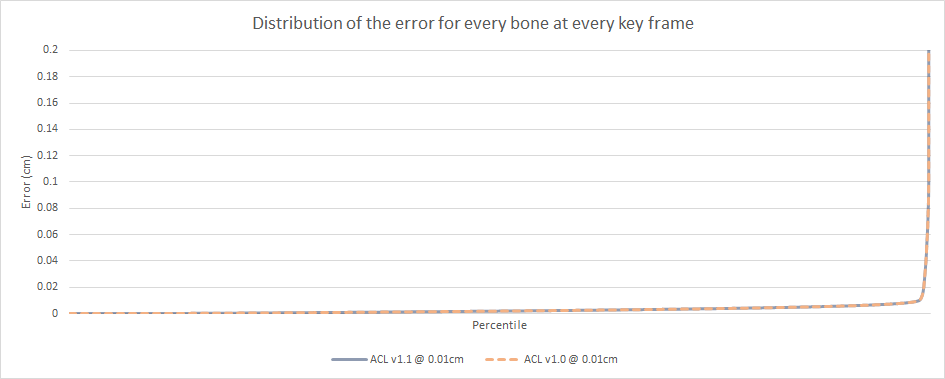
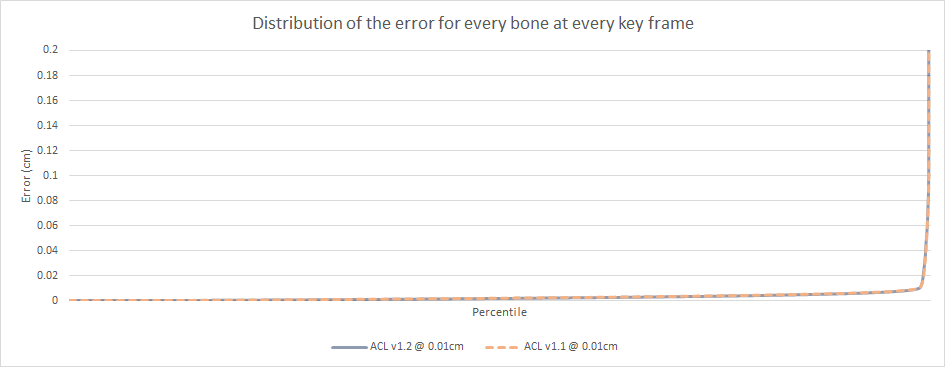
Updating Paragon stats and graphs.

diff --git a/docs/paragon_performance.md b/docs/paragon_performance.md
@@ -1,19 +1,18 @@
 # Paragon database performance
 
-|                       | v1.1.0        | v1.0.0        | v0.8.0        |
+|                       | v1.2.0  | v1.1.0        | v1.0.0        |
 | --------------------- | ------------- | ------------- | ------------- |
-| **Compressed size**   | 206.65 MB     | 206.57 MB     | 206.09 MB     |
-| **Compression ratio** | 20.69 : 1     | 20.70 : 1     | 20.75 : 1     |
-| **Compression time**  | 7h 14m 54.53s | 7h 57m 41.72s | 7h 30m 46.44s |
-| **Compression speed**  | 167.80 KB/sec | 152.77 KB/sec | 161.90 KB/sec |
-| **Max error**         | 7.0175 cm     | 7.0159 cm     | 3.8615 cm     |
-| **Error 99<sup>th</sup> percentile** | 0.0116 cm | 0.0116 cm | 0.0113 cm |
-| **Samples below error threshold** | 98.81 % | 98.81 % | 98.83 % |
+| **Compressed size**   | 218.58 MB | 206.65 MB     | 206.57 MB     |
+| **Compression ratio** | 19.56 : 1 | 20.69 : 1     | 20.70 : 1     |
+| **Compression time**  | 28m 56.48s | 7h 14m 54.53s | 7h 57m 41.72s |
+| **Compression speed**  | 2521.62 KB/sec | 167.80 KB/sec | 152.77 KB/sec |
+| **Max error**         | 4.0184 cm | 7.0175 cm     | 7.0159 cm     |
+| **Error 99<sup>th</sup> percentile** | 0.0116 cm | 0.0116 cm | 0.0116 cm |
+| **Samples below error threshold** | 98.85 % | 98.81 % | 98.81 % |
 
 Notes:
 
-*  The error is unusually high and above **1cm** for **6** exotic clips
-*  **v1.0.0** is **NOT** less accurate, a bug was fixed that partially hid the true error with 3D scale in prior versions
+*  The error is unusually high and above **1 cm** for **4** exotic clips
 
 # Data and method used
 
@@ -22,10 +21,8 @@ To compile these statistics, a large number of animations from [Paragon](https:/
 In *October 2017* the animations were manually extracted and converted to the [ACL file format](the_acl_file_format.md) losslessly. The data is sadly **NOT** available upon request.
 Epic has permitted [Nicholas Frechette](https://github.com/nfrechette) to use them for research purposes only under a non-disclosure agreement.
 
-**Note: Epic has since released Paragon assets publicly in early 2018, once I get around to it, it will be extracted along with updated stats.**
-
 *  Number of clips: **6558**
-*  Total duration: **7h 00m 45.27s**
+*  Total duration: **7h 0m 45.27s**
 *  Raw size: **4276.11 MB** (10x float32 * num bones * num samples)
 
 The data set contains among other things:
@@ -48,21 +45,12 @@ The performance of ACL in Unreal Engine 4 is tracked by the plugin [here](https:
 
 ![Compression ratio VS max error per clip](images/acl_paragon_compression_ratio_vs_max_error.png)
 
-
-![Compression ratio by clip duration](images/acl_paragon_compression_ratio_by_duration.png)
-![Compression ratio by clip duration (shortest 100)](images/acl_paragon_compression_ratio_by_duration_shortest_100.png)
 ![Compression ratio distribution](images/acl_paragon_compression_ratio_distribution.png)
-![Compression ratio distribution (bottom 10%)](images/acl_paragon_compression_ratio_distribution_bottom_10.png)
-![Compression ratio distribution (top 1%)](images/acl_paragon_compression_ratio_distribution_top_1.png)
-![Compression ratio histogram](images/acl_paragon_compression_ratio_histogram.png)
 
-
-![Max error by clip duration](images/acl_paragon_max_clip_error_by_duration.png)
 ![Max error distribution](images/acl_paragon_max_error_distribution.png)
-![Max error per clip histogram](images/acl_paragon_max_error_histogram.png)
-
 
 ![Distribution of the error for every bone at every key frame](images/acl_paragon_exhaustive_error.png)
+
 ![Distribution of the error for every bone at every key frame (top 10%)](images/acl_paragon_exhaustive_error_top_10.png)
 
 ![Distribution of clip durations](images/acl_paragon_clip_durations.png)
